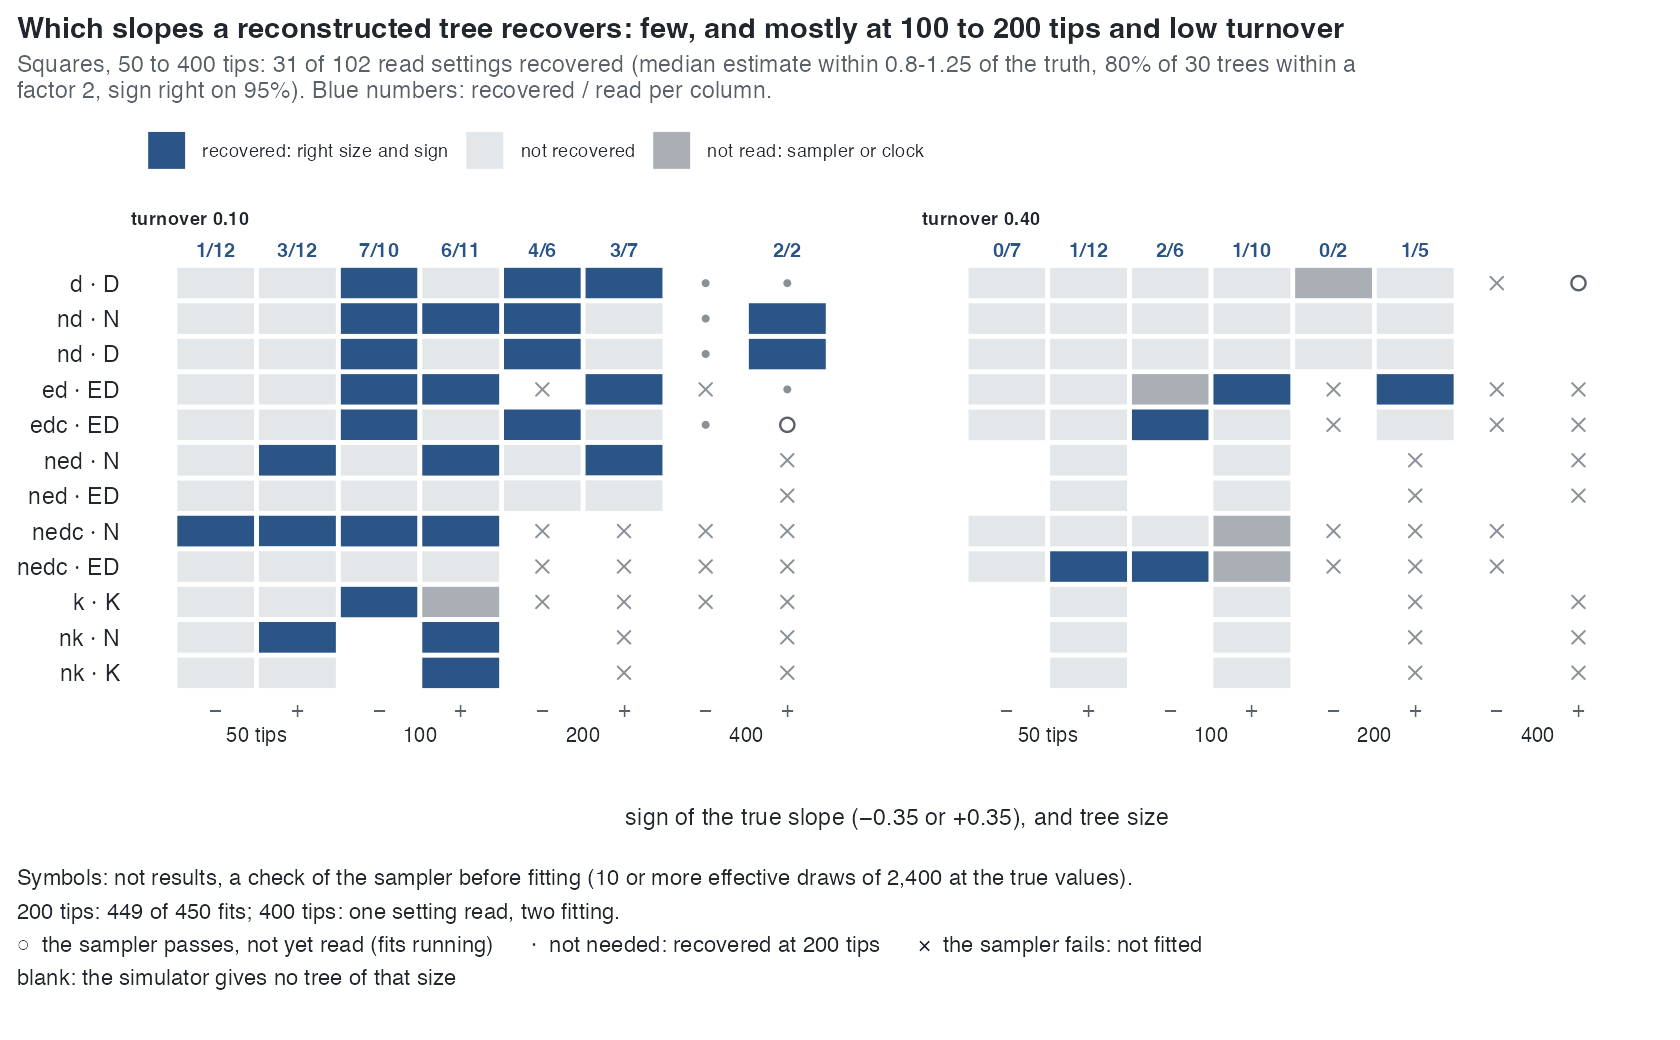
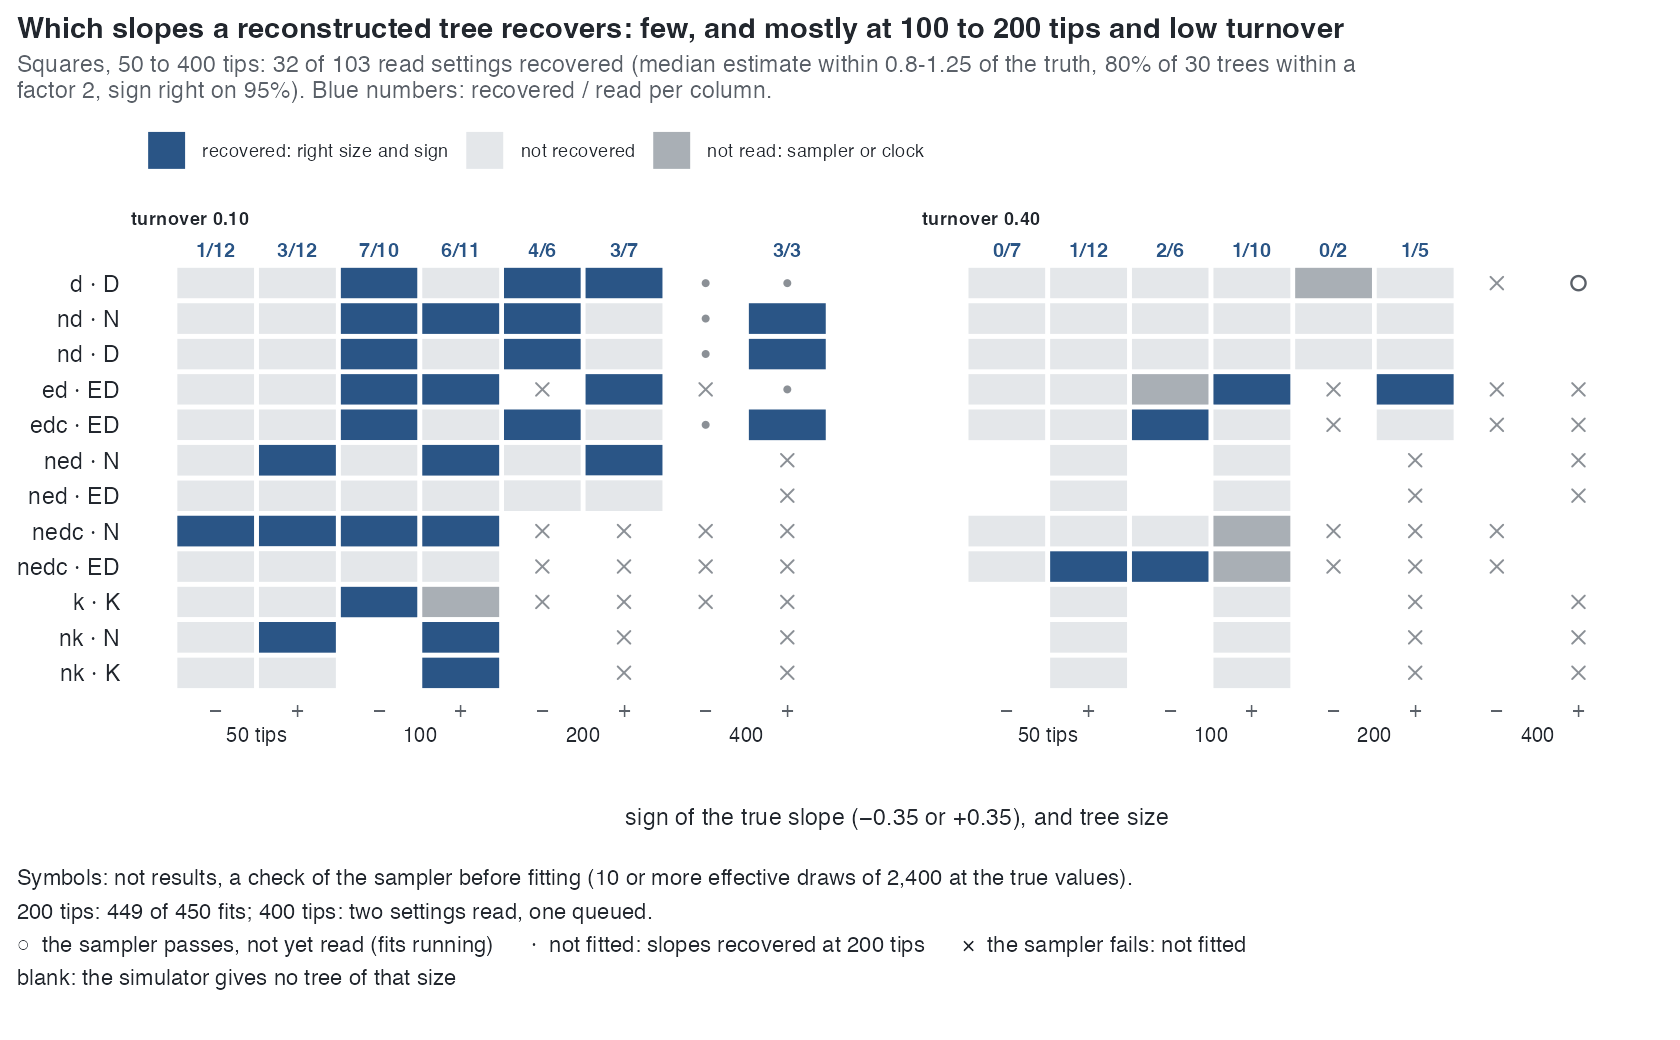
Site rebuilt: edc at 400 tips; the 400-tip selection stated

Changed region(s): [[0.2167, 0.8615, 0.7429, 0.9231], [0.4333, 0.3692, 0.4952, 0.4308]]

diff --git a/docs/experiments/V5.html b/docs/experiments/V5.html
@@ -127,11 +127,11 @@ window.MathJax = {
 <h2 id="200-tips-v5b">200 tips (V5b)</h2>
 <p><em>22 November: 448 of 450 fits written, 442 finished (the rest on the 44-hour clock); 14 of 15 cells read. <code>d</code> <span class="math inline">\(-0.35\)</span> at turnover 0.40 is sampler-limited (median final effective sample 8.2).</em> Of the 20 slope cells read, 8 are identified: <span class="math inline">\(\beta_D\)</span> of <code>d</code> at both signs and of <code>nd</code> at <span class="math inline">\(-0.35\)</span>; <span class="math inline">\(\beta_N\)</span> of <code>nd</code> at <span class="math inline">\(-0.35\)</span> and of <code>ned</code> at <span class="math inline">\(+0.35\)</span>; <span class="math inline">\(\beta_{ED}\)</span> of <code>edc</code> at <span class="math inline">\(-0.35\)</span> and of <code>ed</code> at <span class="math inline">\(+0.35\)</span> at both turnovers; all at turnover 0.10 except <code>ed</code> at 0.40. Against 100 tips, <code>d</code> <span class="math inline">\(+0.35\)</span> is identified at 200 and not at 100, and <code>nd</code> <span class="math inline">\(+0.35\)</span>'s <span class="math inline">\(\beta_N\)</span> is identified at 100 and not at 200 (median ratio 1.00, 10th percentile 0.44). At turnover 0.40 <code>nd</code>'s <span class="math inline">\(\beta_N\)</span> has a negative median ratio, and only <code>ed</code> <span class="math inline">\(+0.35\)</span> is identified. <span class="math inline">\(\beta_0\)</span> meets the rule in 12 of 14 cells, <span class="math inline">\(\gamma_0\)</span> in none.</p>
 <h2 id="400-tips-amendment-of-21-november">400 tips (amendment of 21 November)</h2>
-<p>Three cells pass the gate and have a slope not reliable at 200 tips: <code>nd</code> <span class="math inline">\(+0.35\)</span> and <code>edc</code> <span class="math inline">\(+0.35\)</span> at turnover 0.10, <code>d</code> <span class="math inline">\(+0.35\)</span> at 0.40; the other five passing cells were identified at 200 and are not fitted at 400.</p>
+<p>Eight cells pass the gate. By the registered wording (a parameter not reliable at 200) all eight qualify, because <span class="math inline">\(\gamma_0\)</span> is reliable in none; the three fitted are those with a speciation coefficient not reliable at 200, a narrower criterion chosen with the 200-tip interim in hand (amendment of 25 November): <code>nd</code> <span class="math inline">\(+0.35\)</span> and <code>edc</code> <span class="math inline">\(+0.35\)</span> at turnover 0.10, <code>d</code> <span class="math inline">\(+0.35\)</span> at 0.40. The other five are not fitted.</p>
 <ul>
 <li><strong><code>nd</code> <span class="math inline">\(+0.35\)</span>, read (29 of 30 fits, 23 November).</strong> Both slopes are identified: <span class="math inline">\(\beta_D\)</span> at a median ratio of 1.05 (10th to 90th percentile 0.55 to 1.42) and <span class="math inline">\(\beta_N\)</span> at 0.92 (0.60 to 1.30), right sign on every tree; at 200 tips neither met the rule (<span class="math inline">\(\beta_D\)</span> 0.29 to 1.82, <span class="math inline">\(\beta_N\)</span> 0.44 to 1.33).</li>
-<li><strong><code>edc</code> <span class="math inline">\(+0.35\)</span>, filling (19 of 30).</strong> So far <span class="math inline">\(\beta_{ED}\)</span> at 1.00 (0.72 to 1.41).</li>
-<li><strong><code>d</code> <span class="math inline">\(+0.35\)</span> at turnover 0.40</strong>: queued.</li>
+<li><strong><code>edc</code> <span class="math inline">\(+0.35\)</span>, read (28 of 30 fits, 24 November).</strong> <span class="math inline">\(\beta_{ED}\)</span> is identified: median ratio 1.04 (0.76 to 1.41), right sign on every tree; at 200 tips it was 0.97 (0.41 to 1.22).</li>
+<li><strong><code>d</code> <span class="math inline">\(+0.35\)</span> at turnover 0.40</strong>: queued (submitted 24 November).</li>
 </ul>
 <h2 id="the-200--and-400-tip-cells-amendments-of-18-november">The 200- and 400-tip cells (amendments of 18 November)</h2>
 <p><strong>The gate</strong> (<code>sim/V5g.R</code>, <code>results/V5g/gate.csv</code>): on every reachable cell at 200 and 400 tips, the effective sample of 2,400 draws at the generating values on the 30 trees V5 fits, with the fit's proposal. With thinning, the default for <code>d</code> and <code>nd</code>, 7 of their 8 cells keep a median of 1.7 to 7.5 effective draws at 200 tips; the surrogate keeps 143 to 620 on every <code>nd</code> cell and 16 to 256 on every <code>d</code> cell. By the evening amendment <code>d</code> and <code>nd</code> are fitted and gated on the surrogate at 200 and 400 tips, and <code>k</code> at <span class="math inline">\(+0.35\)</span> (median 50 and 55 tips at the 200-tip target) is not a 200-tip cell. <strong>Pass at 200 tips (15 of 28):</strong> <code>d</code> and <code>nd</code> (all 8, surrogate), <code>ed</code> <span class="math inline">\(+0.35\)</span> (both turnovers), <code>edc</code> (turnover 0.10 both signs, 0.40 <span class="math inline">\(+0.35\)</span>), <code>ned</code> (turnover 0.10 both signs). <strong>Pass at 400 tips (8 of 24):</strong> <code>d</code> (turnover 0.10 both, 0.40 <span class="math inline">\(+0.35\)</span>), <code>nd</code> (turnover 0.10 both), <code>ed</code> <span class="math inline">\(+0.35\)</span> and <code>edc</code> (turnover 0.10).</p>

diff --git a/docs/experiments/index.html b/docs/experiments/index.html
@@ -219,7 +219,7 @@ window.MathJax = {
 <td><a href="V5.html">V5</a></td>
 <td>From how many tips is each lineage-level coefficient recovered?</td>
 <td>Running</td>
-<td>Interim at 50 and 100 tips (1,678 of 1,710 fits): 21 of 80 slope cells identified, mostly at 100 tips and turnover 0.10; <span class="math inline">\(\beta_N\)</span> nowhere at 0.40; no extinction intercept anywhere. 200 tips (V5b, 449 of 450 fits): 8 of 20 slope cells identified, all but one at turnover 0.10. 400 tips: <code>nd</code> <span class="math inline">\(+0.35\)</span> read, both slopes identified (neither was at 200); two cells fitting.</td>
+<td>Interim at 50 and 100 tips (1,678 of 1,710 fits): 21 of 80 slope cells identified, mostly at 100 tips and turnover 0.10; <span class="math inline">\(\beta_N\)</span> nowhere at 0.40; no extinction intercept anywhere. 200 tips (V5b, 449 of 450 fits): 8 of 20 slope cells identified, all but one at turnover 0.10. 400 tips: <code>nd</code> and <code>edc</code> <span class="math inline">\(+0.35\)</span> read, their three slopes identified (none was at 200); one cell queued.</td>
 </tr>
 <tr>
 <td><a href="V6.html">V6</a></td>

diff --git a/docs/experiments/validation.html b/docs/experiments/validation.html
@@ -86,7 +86,7 @@ window.MathJax = {
 <td><a href="V5.html">V5</a></td>
 <td>recovery and tree size</td>
 <td>E2, E12, E16, E18, E19, E21, E24, E29, E30</td>
-<td>interim at 50/100 tips (1,678 of 1,710 fits, 54 of 57 cells read): 21 of 80 slope cells identified; 200 tips (449 of 450 fits, 14 of 15 cells read): 8 of 20 slope cells identified; 400 tips: <code>nd</code> <span class="math inline">\(+0.35\)</span> read with both slopes identified, two cells fitting</td>
+<td>interim at 50/100 tips (1,678 of 1,710 fits, 54 of 57 cells read): 21 of 80 slope cells identified; 200 tips (449 of 450 fits, 14 of 15 cells read): 8 of 20 slope cells identified; 400 tips: <code>nd</code> and <code>edc</code> <span class="math inline">\(+0.35\)</span> read, their three slopes identified, one cell queued</td>
 </tr>
 <tr>
 <td><a href="V6.html">V6</a></td>
